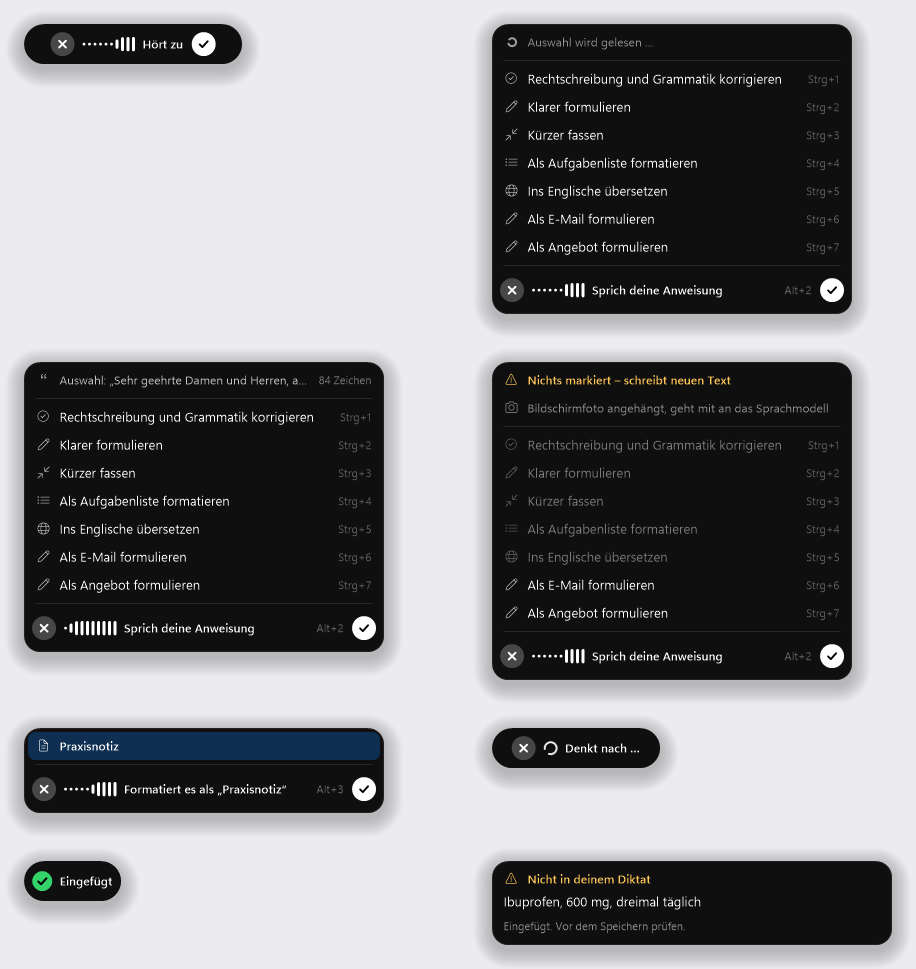
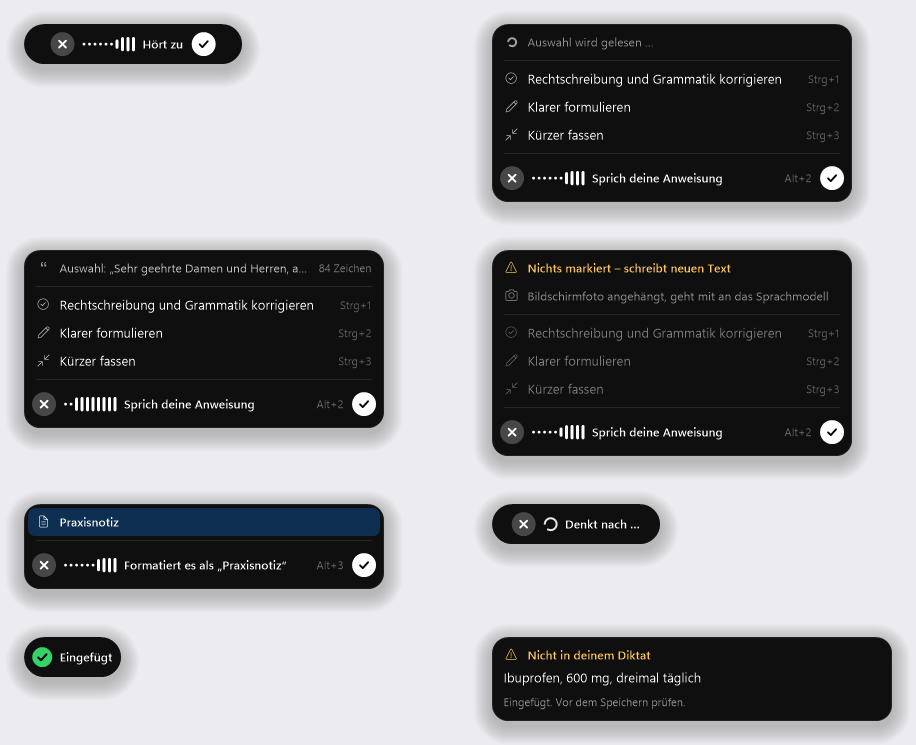
feat(quick-card): the Dictate Prompt card shows the three most used, like the Mac
Mac QuickActionStore: up to 9 own prompts, the card shows cardEntries = 3,
picked by uses in the last 30 days (own order breaks ties) and listed in
the Settings order; ⌃1–3 pick the rows. Windows showed all of them as
Ctrl+1–9.

QuickActionCard.Select ports that choice and normalizeKey; QuickActionUsage
counts the card's picks in %LOCALAPPDATA%\WhisperShortcut\quick-usage.json
(Windows has no interaction log). Take.Card holds the rows, Ctrl+1–3 and
clicks pick from it. Settings and MCP texts use the Mac wording.

diff --git a/src/WhisperShortcut/TrayApp.cs b/src/WhisperShortcut/TrayApp.cs
@@ -37,10 +37,11 @@ internal sealed partial class TrayApp : ApplicationContext
     private readonly ToolStripMenuItem _recentMenu;
     private readonly ToolStripMenuItem _retryItem;
     private readonly RecordingOverlay _overlay = new();
+    private readonly Core.QuickActionUsage _quickUsage = new();
     // In memory only: in a practice a dictation must not stay behind in a file.
     private readonly Core.RecentTexts _recent = new();
     private static readonly Hotkey Escape = new(0, Keys.Escape);
-    // Ctrl+1–9 while a Dictate Prompt recording runs: apply a quick instruction (Settings.QuickActions).
+    // Ctrl+1–3 while a Dictate Prompt recording runs: apply a quick instruction from the card (Take.Card).
     private static readonly Hotkey[] QuickKeys =
         Enumerable.Range(0, Core.QuickActionList.Max).Select(i => new Hotkey(NativeMethods.MOD_CONTROL, Keys.D1 + i)).ToArray();
 
@@ -709,9 +710,10 @@ internal sealed partial class TrayApp : ApplicationContext
     /// </summary>
     private void OnQuickAction(int index)
     {
-        if (_take is not { Phase: TakePhase.Recording, Kind: Core.RecordingKindName.Prompt } take || index >= _settings.QuickActions.Count) return;
+        if (_take is not { Phase: TakePhase.Recording, Kind: Core.RecordingKindName.Prompt } take || index >= take.Card.Count) return;
         Core.Log.Info($"Quick action {index + 1}");
-        take.QuickAction = _settings.QuickActions[index];
+        take.QuickAction = take.Card[index];
+        _quickUsage.Record(take.QuickAction, DateTime.UtcNow);
         _ = StopAndProcessAsync();
     }
 
@@ -918,6 +920,8 @@ internal sealed partial class TrayApp : ApplicationContext
         long micMs = feedback.ElapsedMilliseconds - beforeMic;
         Sounds.Start();
         take.Serial = ++_recordingSerial;
+        // Mac: the three most used of the user's quick instructions, in their Settings order; set before RefreshStatus registers Ctrl+1–3.
+        if (mode == Mode.Prompt) take.Card = Core.QuickActionCard.Select(_settings.QuickActions, _quickUsage.Counts(DateTime.UtcNow));
         _take = take;
         RefreshStatus();
         // One turn only: a Dictate run leaves the image for the next Dictate Prompt or template run.
@@ -925,7 +929,7 @@ internal sealed partial class TrayApp : ApplicationContext
         if (take.Shot != null) Core.Log.Info($"{mode}: screenshot attached ({take.Shot.Data.Length / 1024} KB)");
         _overlay.ShowRecording(mode, Hotkey.Display(stored), limit,
             mic != null ? () => mic.Level : null, mic != null ? () => mic.PeakSoFar : null,
-            mode == Mode.Prompt ? _settings.QuickActions : null,
+            take.Card,
             templateName: mode == Mode.Template ? template!.DisplayName : null, screenshot: take.Shot != null,
             title: live != null ? Core.UserCopy.LiveTitle : null);
         Core.Log.Info($"{mode}: overlay after {feedback.ElapsedMilliseconds} ms (setup {beforeMic} ms, microphone {micMs} ms)");
@@ -1554,7 +1558,7 @@ internal sealed partial class TrayApp : ApplicationContext
     }
 
     /// <summary>
-    /// A quick instruction (Ctrl+1–9 or a click while recording). Whatever was said is transcribed and
+    /// A quick instruction (Ctrl+1–3 or a click while recording). Whatever was said is transcribed and
     /// goes along as text, so this path always has a transcript to check the reply against.
     /// </summary>
     private async Task<string> QuickActionAsync(string quick, byte[] wav, double seconds, string? selection, string systemPrompt, CancellationToken ct)
@@ -1568,7 +1572,7 @@ internal sealed partial class TrayApp : ApplicationContext
         if (request == null)
         {
             Sounds.Error();
-            Notify("Nichts zum Anwenden", $"Erst Text markieren oder etwas diktieren, dann {Core.QuickActionList.KeyRange} drücken.", ToolTipIcon.Info);
+            Notify("Nichts zum Anwenden", $"Erst Text markieren oder etwas diktieren, dann {Core.QuickActionCard.KeyRange} drücken.", ToolTipIcon.Info);
             return "";
         }
         var (target, instruction, fromDictation) = request.Value;
@@ -1901,7 +1905,7 @@ internal sealed partial class TrayApp : ApplicationContext
     // ---------------- UI ----------------
 
     /// <summary>
-    /// Esc and Ctrl+1–9 belong to the other programs except while we need them: Esc while recording or processing,
+    /// Esc and Ctrl+1–3 belong to the other programs except while we need them: Esc while recording or processing,
     /// Ctrl+1–9 only while a Dictate Prompt recording runs.
     /// </summary>
     private void SyncSessionHotkeys()
@@ -1911,7 +1915,7 @@ internal sealed partial class TrayApp : ApplicationContext
         bool quick = _take is { Phase: TakePhase.Recording, Kind: Core.RecordingKindName.Prompt };
         for (int i = 0; i < QuickKeys.Length; i++)
         {
-            if (!quick || i >= _settings.QuickActions.Count) _hotkeys.Unregister(QuickKeys[i]);
+            if (!quick || i >= _take!.Card.Count) _hotkeys.Unregister(QuickKeys[i]);
             else if (!_hotkeys.IsRegistered(QuickKeys[i]))
             {
                 int index = i;

diff --git a/src/WhisperShortcut.Core/QuickActionCard.cs b/src/WhisperShortcut.Core/QuickActionCard.cs
@@ -1,0 +1,108 @@
+using System.Text.Json;
+
+namespace WhisperShortcut.Core;
+
+/// <summary>
+/// Which quick instructions the Dictate Prompt card shows: like the Mac (QuickActionStore.combined, cardEntries = 3),
+/// the three most used of the user's own in the last 30 days, own order breaking ties, listed in the Settings order.
+/// Strg+1–3 pick the rows as shown, so a prompt's key can change when usage changes, its row order never does.
+/// </summary>
+public static class QuickActionCard
+{
+    /// <summary>Rows on the card (Mac <c>QuickActionStore.cardEntries</c>).</summary>
+    public const int Entries = 3;
+
+    /// <summary>"Strg+1 bis Strg+3", for texts that name the card's keys.</summary>
+    public static string KeyRange => $"Strg+1 bis Strg+{Entries}";
+
+    public static readonly TimeSpan Lookback = TimeSpan.FromDays(30);
+
+    /// <summary>The rows for <paramref name="own"/> (Settings order) given uses per <see cref="NormalizeKey"/>.</summary>
+    public static IReadOnlyList<string> Select(IReadOnlyList<string> own, IReadOnlyDictionary<string, int> counts)
+    {
+        var chosen = own
+            .Select((text, index) => (text, index, uses: counts.TryGetValue(NormalizeKey(text), out var n) ? n : 0))
+            .OrderByDescending(x => x.uses).ThenBy(x => x.index)
+            .Take(Entries)
+            .Select(x => x.index)
+            .ToHashSet();
+        return own.Where((_, index) => chosen.Contains(index)).ToList();
+    }
+
+    private static readonly HashSet<string> Fillers = new() { "ähm", "äh", "ehm", "um", "uh" };
+    private static readonly char[] EdgePunctuation = { '.', ',', '!', '?', ';', ':' };
+
+    /// <summary>Port of <c>QuickActionStore.normalizeKey</c>: lower case, fillers and edge punctuation dropped.</summary>
+    public static string NormalizeKey(string? raw)
+    {
+        var tokens = (raw ?? "").ToLowerInvariant().Trim().TrimEnd(EdgePunctuation)
+            .Split((char[]?)null, StringSplitOptions.RemoveEmptyEntries)
+            .Select(t => t.TrimEnd(EdgePunctuation))
+            .Where(t => t.Length > 0 && !Fillers.Contains(t));
+        return string.Join(" ", tokens);
+    }
+}
+
+/// <summary>
+/// When each quick instruction was run, kept for <see cref="QuickActionCard.Lookback"/> in a small JSON file under
+/// %LOCALAPPDATA%. The Mac counts the same from its interaction log; Windows has none, so it counts the picks itself.
+/// </summary>
+public sealed class QuickActionUsage
+{
+    private readonly string _path;
+    private readonly object _lock = new();
+    private List<Use>? _uses;
+
+    private sealed record Use(string Key, DateTime Utc);
+
+    public QuickActionUsage(string? path = null) =>
+        _path = path ?? Path.Combine(AppData.LocalFolder, "quick-usage.json");
+
+    /// <summary>Uses per normalized key within the lookback window.</summary>
+    public IReadOnlyDictionary<string, int> Counts(DateTime nowUtc)
+    {
+        lock (_lock)
+        {
+            return Load().Where(u => nowUtc - u.Utc <= QuickActionCard.Lookback)
+                .GroupBy(u => u.Key).ToDictionary(g => g.Key, g => g.Count());
+        }
+    }
+
+    /// <summary>Counts one run of <paramref name="text"/> and drops uses older than the window.</summary>
+    public void Record(string text, DateTime nowUtc)
+    {
+        var key = QuickActionCard.NormalizeKey(text);
+        if (key.Length == 0) return;
+        lock (_lock)
+        {
+            var uses = Load();
+            uses.RemoveAll(u => nowUtc - u.Utc > QuickActionCard.Lookback);
+            uses.Add(new Use(key, nowUtc));
+            if (AppData.ResetDone) return;
+            try
+            {
+                Directory.CreateDirectory(Path.GetDirectoryName(_path)!);
+                File.WriteAllText(_path, JsonSerializer.Serialize(uses));
+            }
+            catch (Exception e) when (e is IOException or UnauthorizedAccessException)
+            {
+                Log.Info($"Quick action usage not saved: {e.Message}");
+            }
+        }
+    }
+
+    private List<Use> Load()
+    {
+        if (_uses != null) return _uses;
+        try
+        {
+            _uses = File.Exists(_path) ? JsonSerializer.Deserialize<List<Use>>(File.ReadAllText(_path)) ?? new() : new();
+        }
+        catch (Exception e) when (e is IOException or UnauthorizedAccessException or JsonException)
+        {
+            Log.Info($"Quick action usage unreadable, starting empty: {e.Message}");
+            _uses = new();
+        }
+        return _uses;
+    }
+}

diff --git a/src/WhisperShortcut/SettingsForm.cs b/src/WhisperShortcut/SettingsForm.cs
@@ -263,7 +263,7 @@ internal sealed partial class SettingsForm : FastShowForm
             + "Aus: Nur das Symbol und die Anzeige am Bildschirm zeigen, was gerade passiert.", _sounds, ToggleWidth, out _));
         var fixedCard = new Card();
         fixedCard.AddRow(SettingRow("Aufnahme verwerfen oder Verarbeitung abbrechen", null, KeyCap("Esc"), ButtonWidth + 40, out _));
-        fixedCard.AddRow(SettingRow("Schnellanweisung anwenden (nur bei Dictate Prompt)", null, KeyCap(Core.QuickActionList.KeyRange), ButtonWidth + 40, out _));
+        fixedCard.AddRow(SettingRow("Schnellanweisung anwenden (nur bei Dictate Prompt)", null, KeyCap(Core.QuickActionCard.KeyRange), ButtonWidth + 40, out _));
         AddAdvanced(general,
             Section("Töne", first: true), soundCard,
             Section("Während einer Aufnahme", subtitle: "Diese Tasten sind nur belegt, solange die Anzeige unten zu sehen ist. "
@@ -467,18 +467,20 @@ internal sealed partial class SettingsForm : FastShowForm
         prompt.Controls.Add(_screenshotOff);
 
         prompt.Controls.Add(Section("Schnellanweisungen"));
-        prompt.Controls.Add(Wrap($"Erscheinen bei Dictate Prompt ({Hotkey.Display(settings.ActivePromptHotkey.Length > 0 ? settings.ActivePromptHotkey : settings.PromptHotkey)}) unten in der Anzeige. "
-            + $"{Core.QuickActionList.KeyRange} oder ein Klick wendet sie sofort an: auf die Markierung oder, ohne Markierung, auf das gerade "
-            + "Diktierte. Beispiel: Text markieren, Strg+3, schon kürzer. Leere Felder werden ausgelassen.", 0));
+        // Mac wording (QuickActionStore.cardEntries = 3): "Die drei meistgenutzten erscheinen über der Aufnahmeanzeige …".
+        prompt.Controls.Add(Wrap($"Die drei meistgenutzten der letzten 30 Tage erscheinen in der Anzeige, während du einen Prompt diktierst "
+            + $"({Hotkey.Display(settings.ActivePromptHotkey.Length > 0 ? settings.ActivePromptHotkey : settings.PromptHotkey)}). "
+            + $"Klick einen an oder drück {Core.QuickActionCard.KeyRange}, statt zu sprechen: Er wirkt auf die Markierung oder, ohne Markierung, "
+            + "auf das gerade Diktierte. Bei Gleichstand gewinnt die obere. Leere Felder werden ausgelassen.", 0));
         var quickTable = new TableLayoutPanel { ColumnCount = 2, Dock = DockStyle.Top, AutoSize = true, Margin = new Padding(0) };
         quickTable.ColumnStyles.Add(new ColumnStyle(SizeType.Absolute, 72));
         quickTable.ColumnStyles.Add(new ColumnStyle(SizeType.Percent, 100));
         for (int i = 0; i < _quick.Length; i++)
         {
-            quickTable.Controls.Add(new ThemedLabel { Text = $"Strg+{i + 1}", Tone = Tone.Secondary, AutoSize = true, Anchor = AnchorStyles.Left, Margin = new Padding(0, 0, 8, 0) }, 0, i);
+            quickTable.Controls.Add(new ThemedLabel { Text = $"{i + 1}.", Tone = Tone.Secondary, AutoSize = true, Anchor = AnchorStyles.Left, Margin = new Padding(0, 0, 8, 0) }, 0, i);
             _quick[i] = new TextBox
             {
-                MaxLength = Core.QuickActionList.MaxLength, AccessibleName = $"Schnellanweisung Strg+{i + 1}",
+                MaxLength = Core.QuickActionList.MaxLength, AccessibleName = $"Schnellanweisung {i + 1}",
                 Text = i < settings.QuickActions.Count ? settings.QuickActions[i] : "",
                 PlaceholderText = i == 0 ? "z. B. Als Arztbrief formulieren" : "",
             };

diff --git a/tests/WhisperShortcut.Tests/QuickActionCardTests.cs b/tests/WhisperShortcut.Tests/QuickActionCardTests.cs
@@ -1,0 +1,59 @@
+using WhisperShortcut.Core;
+using Xunit;
+
+namespace WhisperShortcut.Tests;
+
+public class QuickActionCardTests
+{
+    private static readonly string[] Own = { "Korrigieren", "Klarer", "Kürzer", "Aufgabenliste", "Englisch", "E-Mail", "Angebot" };
+
+    [Fact]
+    public void NoUsage_ShowsTheFirstThree() =>
+        Assert.Equal(new[] { "Korrigieren", "Klarer", "Kürzer" }, QuickActionCard.Select(Own, new Dictionary<string, int>()));
+
+    [Fact]
+    public void MostUsedWin_ButKeepTheSettingsOrder()
+    {
+        var counts = new Dictionary<string, int> { ["angebot"] = 5, ["e-mail"] = 2, ["korrigieren"] = 2 };
+        // Angebot 5, then E-Mail and Korrigieren tie at 2; all three shown in Settings order.
+        Assert.Equal(new[] { "Korrigieren", "E-Mail", "Angebot" }, QuickActionCard.Select(Own, counts));
+    }
+
+    [Fact]
+    public void TiesGoToTheEarlierOwnPrompt()
+    {
+        var counts = new Dictionary<string, int> { ["angebot"] = 1, ["englisch"] = 1 };
+        Assert.Equal(new[] { "Korrigieren", "Englisch", "Angebot" }, QuickActionCard.Select(Own, counts));
+    }
+
+    [Fact]
+    public void FewerThanThree_ShowsAll() =>
+        Assert.Equal(new[] { "A", "B" }, QuickActionCard.Select(new[] { "A", "B" }, new Dictionary<string, int>()));
+
+    [Theory]
+    [InlineData("Kürzer fassen.", "kürzer fassen")]
+    [InlineData("  Ähm, klarer formulieren!", "klarer formulieren")]
+    [InlineData("äh", "")]
+    public void NormalizeKey_LikeTheMac(string raw, string key) => Assert.Equal(key, QuickActionCard.NormalizeKey(raw));
+
+    [Fact]
+    public void Usage_CountsWithinThirtyDays_AndPersists()
+    {
+        var path = Path.Combine(Path.GetTempPath(), "wsw-quick-" + Guid.NewGuid().ToString("N") + ".json");
+        try
+        {
+            var now = new DateTime(2026, 11, 23, 12, 0, 0, DateTimeKind.Utc);
+            var usage = new QuickActionUsage(path);
+            usage.Record("Kürzer fassen", now.AddDays(-40));
+            usage.Record("Kürzer fassen.", now.AddDays(-1));
+            usage.Record("Als Angebot formulieren", now);
+            var counts = new QuickActionUsage(path).Counts(now);
+            Assert.Equal(1, counts["kürzer fassen"]);
+            Assert.Equal(1, counts["als angebot formulieren"]);
+        }
+        finally
+        {
+            File.Delete(path);
+        }
+    }
+}

diff --git a/src/WhisperShortcut/RecordingOverlay.cs b/src/WhisperShortcut/RecordingOverlay.cs
@@ -8,7 +8,7 @@ namespace WhisperShortcut;
 /// The pill at the bottom of the screen, drawn like the Mac's recording pill (RecordingIndicatorWindow.swift):
 /// a black capsule (92 % opaque) with ✕, ten white level bars, the status word and a white ✓ while recording,
 /// ✕, spinner and status word while processing. Dictate Prompt and templates grow it into the Mac's card
-/// (QuickActionCardView): what the run acts on, the quick instructions (Strg+1–9 or a click), and the recording
+/// (QuickActionCardView): what the run acts on, the three most used quick instructions (Strg+1–3 or a click), and the recording
 /// controls as its footer.
 /// Like the Mac panel (borderless, non-activating, hasShadow) it never takes focus (WS_EX_NOACTIVATE,
 /// MA_NOACTIVATE), otherwise Ctrl+V would land in the pill instead of the user's window.
@@ -133,7 +133,7 @@ internal sealed class RecordingOverlay : OverlayForm
     // ---------------- API for TrayApp ----------------
 
     /// <param name="level">Live level 0..1 (null for a test WAV: no bars, no silence warning).</param>
-    /// <param name="quickActions">Dictate Prompt: the instructions offered as Ctrl+1–9 rows.</param>
+    /// <param name="quickActions">Dictate Prompt: the card's rows (Take.Card, at most three).</param>
     /// <param name="templateName">A template recording: the card names it, and no quick instructions are offered.</param>
     /// <param name="screenshot">A held screenshot is sent with this run: shown as its own line.</param>
     public void ShowRecording(Mode mode, string stopKey, TimeSpan limit, Func<float>? level, Func<float>? peakSoFar,

diff --git a/src/WhisperShortcut.Core/Mcp/McpConfigTools.cs b/src/WhisperShortcut.Core/Mcp/McpConfigTools.cs
@@ -103,7 +103,7 @@ public sealed class McpConfigTools(McpToolContext ctx) : IMcpToolProvider, IMcpR
             }, new[] { "section", "content" }, Writes(true));
 
         yield return WriteTool("update_quick_instructions", "Update Quick Instructions",
-            $"Replaces the whole list of quick instructions (Ctrl+1 to Ctrl+{QuickActionList.Max} while recording a Dictate Prompt). At most {QuickActionList.Max} items of {QuickActionList.MaxLength} characters each. Read the current list with get_configuration and keep the ones the user still needs.",
+            $"Replaces the whole list of quick instructions (the {QuickActionCard.Entries} most used in the last 30 days appear as Ctrl+1 to Ctrl+{QuickActionCard.Entries} while recording a Dictate Prompt). At most {QuickActionList.Max} items of {QuickActionList.MaxLength} characters each. Read the current list with get_configuration and keep the ones the user still needs.",
             new JsonObject { ["instructions"] = StringList("The complete new list.", QuickActionList.Max) }, new[] { "instructions" }, Writes(true));
 
         yield return new JsonObject

diff --git a/src/WhisperShortcut/Take.cs b/src/WhisperShortcut/Take.cs
@@ -80,6 +80,9 @@ internal sealed class Take : IDisposable
     public Task<string?>? Selection { get; private set; }
 
     public string? QuickAction { get; set; }
+
+    /// <summary>Dictate Prompt: the quick instructions on the card, in row order (Strg+1–3 pick from these).</summary>
+    public IReadOnlyList<string> Card { get; set; } = Array.Empty<string>();
     public Core.ScreenshotImage? Shot { get; set; }
     public CancellationTokenSource? Cts { get; set; }
     public string BusyStatus { get; set; } = Core.UserCopy.Processing;

diff --git a/tests/WhisperShortcut.UiTests/OverlayTests.cs b/tests/WhisperShortcut.UiTests/OverlayTests.cs
@@ -49,7 +49,7 @@ public sealed class OverlayTests : IDisposable
         Sta.Run(() =>
         {
             using var overlay = new RecordingOverlay();
-            var quick = Core.QuickActionList.Defaults.Concat(new[] { "Als E-Mail formulieren", "Als Angebot formulieren" }).ToList();
+            var quick = Core.QuickActionCard.Select(Core.QuickActionList.Defaults, new Dictionary<string, int>());
             float level = 0.6f;
             var states = new (string Name, Action Show)[]
             {

diff --git a/docs/plan-mac-angleich.md b/docs/plan-mac-angleich.md
@@ -12,9 +12,9 @@ steht dort in Abschnitt 8 und bleibt. Ein Schritt ist je ein Commit, den Magnus 
 | 4 | Modellwahl als Kacheln (Empfohlen, Am schnellsten, Offline) mit „Weitere Modelle“, Offline-Modus als Schalter | `ModelPickerCuration`, `PrivacyPermissionsTab` | erledigt |
 | 5 | Zwischenablage nach dem Einfügen: „Diktat stehen lassen“ (Standard) / „Vorherigen Inhalt zurücklegen“ / „Leeren“; Automatisch einfügen wie Mac-Standard | `GeneralSettingsTab` | erledigt: „Nach dem Einfügen“ unter Allgemein → Zwischenablage, gesperrt solange „Automatisch einfügen“ aus ist; neu „Diktat stehen lassen“, alte Installationen behalten ihren Schalter (an → zurücklegen, aus → stehen lassen). **Windows anders:** Automatisch einfügen bleibt ab Werk an (Windows braucht keine Berechtigung dafür) |
 | 6 | Meldungen wie die Mac-Popups (unten Mitte, Erfolg 3 s, Fehler mit Knopf), Wortlaut der Mac-Meldungen | `PopupNotificationWindow`, `SpeechErrorFormatter` | erledigt: unten Mitte über der Aufnahmeanzeige, Info 3 s, Warnung/Fehler 30 s, Fehler mit Aktion bleibt; Knopf mit Beschriftung („Erneut versuchen“, „Aufladen“, „Einstellungen öffnen“ …) und ✕; Fehlertitel aus `SpeechErrorFormatter.shortStatus` (`UserCopy.ProviderErrorTitle`). **Windows anders:** kein „Support kontaktieren“ (dafür Tray → „Feedback senden“ → „Problem melden …“), Position und Dauer nicht einstellbar |
-| 7 | Aufnahmeanzeige wie die Pill („Hört zu“, „Prompt“, „Denkt nach“, ✕) | `RecordingIndicatorWindow.swift` | erledigt, seit 0.7.14 auch im Aussehen wie der Mac (Magnus, 23.11.2026): schwarze Kapsel (92 %), ✕, zehn Pegelbalken, Statuswort, weißes ✓ (beendet wie das Kürzel); Dictate Prompt und Vorlagen als Mac-Karte (360 pt, Ecken 16): Kopfzeile „Auswahl: „…“ · n Zeichen“ / „Nichts markiert“ / Vorlagenname, Schnellanweisungen mit Mac-Symbol und „Strg+n“ rechts, Fußzeile ✕ · Pegel · „Sprich deine Anweisung“ · Kürzel · ✓; Einblenden 0,18 s, 28 pt über der Taskleiste. **Windows behält:** Mikrofon- und Zeitlimit-Hinweis (gelb statt des Statusworts), kurzes Häkchen nach dem Einfügen, Bildschirmfoto-Zeile, alle 9 Schnellanweisungen statt der drei meistgenutzten. **Entfallen:** Timer und Tastenhinweis-Zeile. **Offen:** getippte Anweisung (Textfeld), Pille verschieben (Griff), Gerätename hinter „Hört zu“ |
+| 7 | Aufnahmeanzeige wie die Pill („Hört zu“, „Prompt“, „Denkt nach“, ✕) | `RecordingIndicatorWindow.swift` | erledigt, seit 0.7.14 auch im Aussehen wie der Mac (Magnus, 23.11.2026): schwarze Kapsel (92 %), ✕, zehn Pegelbalken, Statuswort, weißes ✓ (beendet wie das Kürzel); Dictate Prompt und Vorlagen als Mac-Karte (360 pt, Ecken 16): Kopfzeile „Auswahl: „…“ · n Zeichen“ / „Nichts markiert“ / Vorlagenname, Schnellanweisungen mit Mac-Symbol und „Strg+n“ rechts, die drei meistgenutzten Schnellanweisungen wie `QuickActionStore.cardEntries` (Strg+1–3), Fußzeile ✕ · Pegel · „Sprich deine Anweisung“ · Kürzel · ✓; Einblenden 0,18 s, 28 pt über der Taskleiste. **Windows behält:** Mikrofon- und Zeitlimit-Hinweis (gelb statt des Statusworts), kurzes Häkchen nach dem Einfügen, Bildschirmfoto-Zeile, **Entfallen:** Timer und Tastenhinweis-Zeile. **Offen:** getippte Anweisung (Textfeld), Pille verschieben (Griff), Gerätename hinter „Hört zu“ |
 | 8 | Einführung als Tour in Schritten statt Banner | `Onboarding/WelcomeSteps` | erledigt: eigenes Fenster `WelcomeForm` (Intro, Einrichtung mit Offline-/Cloud-Karte, Mikrofon, Ausprobieren, Fertig), Punkte und Zurück/Weiter, Pfeiltasten; öffnet bei jedem Start bis „Fertig“, setzt beim gespeicherten Schritt fort; Bestandsinstallationen mit Schlüssel oder Offline-Modus gelten als fertig; Tray „Einrichtung abschließen …“ und „Einführung …“, Über → „Zeigen“; danach ohne Transkription Einstellungen auf „Konten“. Der blaue Banner ist weg. **Windows anders:** Berechtigungen = Mikrofon mit Pegeltest und Knopf zu den Windows-Datenschutzeinstellungen (Windows fragt nicht vorab), Ausprobieren mit dem echten Diktierkürzel statt eines Knopfs, kein OpenRouter/Anthropic/xAI, keine Nutzungsstatistik |
-| 9 | Fehlende Abläufe: abgebrochene Aufnahme transkribieren, 9 Schnell-Prompts, „Erneut ohne Vorlage“, Sprache wählbar, Temperatur/Thinking unter Erweitert | `MenuBarController`, Tabs | erledigt: Tray „Abgebrochene Aufnahme transkribieren“ (ein beim Verarbeiten abgebrochenes Diktat, nur eins, nur im Speicher, kopiert nur) und „Nochmal ohne Vorlage“ (10 min nach einem Vorlagen-Diktat, Audio nur im Speicher, kopiert nur), beide in der Mac-Reihenfolge, „Beschäftigt“ während einer Aufnahme; bis zu 9 Schnellanweisungen (Strg+1–9, Zeilen unter Dictate Prompt, Overlay); Diktieren → „Sprache“ (Automatisch erkennen + 23 Sprachen, nur OpenAI, Gemini und Parakeet ignorieren sie); Diktieren → Erweitert → „Genauigkeit“: Temperatur (0,0 · wörtlich) und Denkaufwand (Minimal) für Gemini. MCP: `dictation.language`, `dictation.temperature`, `dictation.thinking`. **Windows anders:** Schnellanweisungen als neun feste Felder statt „Prompt hinzufügen“/Umsortieren; „Letzte Aufnahme erneut verarbeiten“ bleibt zusätzlich; die Sprache steht immer da (mit Hinweis), nicht nur bei OpenAI |
+| 9 | Fehlende Abläufe: abgebrochene Aufnahme transkribieren, 9 Schnell-Prompts, „Erneut ohne Vorlage“, Sprache wählbar, Temperatur/Thinking unter Erweitert | `MenuBarController`, Tabs | erledigt: Tray „Abgebrochene Aufnahme transkribieren“ (ein beim Verarbeiten abgebrochenes Diktat, nur eins, nur im Speicher, kopiert nur) und „Nochmal ohne Vorlage“ (10 min nach einem Vorlagen-Diktat, Audio nur im Speicher, kopiert nur), beide in der Mac-Reihenfolge, „Beschäftigt“ während einer Aufnahme; bis zu 9 Schnellanweisungen (Zeilen unter Dictate Prompt; im Overlay die 3 meistgenutzten mit Strg+1–3); Diktieren → „Sprache“ (Automatisch erkennen + 23 Sprachen, nur OpenAI, Gemini und Parakeet ignorieren sie); Diktieren → Erweitert → „Genauigkeit“: Temperatur (0,0 · wörtlich) und Denkaufwand (Minimal) für Gemini. MCP: `dictation.language`, `dictation.temperature`, `dictation.thinking`. **Windows anders:** Schnellanweisungen als neun feste Felder statt „Prompt hinzufügen“/Umsortieren; „Letzte Aufnahme erneut verarbeiten“ bleibt zusätzlich; die Sprache steht immer da (mit Hinweis), nicht nur bei OpenAI |
 | 10 | Umfang: Vorlesen, Meetings-Seite, Chat | `ReadAloudSettingsTab`, `MeetingsSettingsTab`, `ChatSettingsTab` | teilweise erledigt (Branch `feat/mac-parity-10`): Vorlesen mit Alt+4, Cloud- und Windows-Stimmen; Meetings-Seite mit eigenen Modellen, Abschnittslänge und Meeting-Schutz; Chatfenster (Alt+6) mit Verlauf, Streaming, Google-Suche, Befehlen und Chat-Seite. Offen: im Chat Bilder/Dateien, Ordner, Gedächtnis, eigene Befehle, verbundene Dienste, /think, /feedback; Meeting-Chat (Fragen zum laufenden Meeting); Vorlesen mit Grok |
 
 ## Schritt 11+: restliche Lücken (Abgleich 04.11.2026 gegen Mac `84c379b`)

diff --git a/docs/macos-paritaet.md b/docs/macos-paritaet.md
@@ -61,7 +61,7 @@ die echtes Windows brauchen, und der Umfang (Chat, Vorlesen, eigener Server).
 | Leere Antwort ist wiederholbar, Aufnahme bleibt | `emptyModelReply` | „Nichts erkannt“, Aufnahme gelöscht | **PR #36** |
 | Bare-Edit-Befehl ohne Markierung | `isBareEditCommand` | `BareEditCommand` | erledigt |
 | Eigene Schnellanweisungen ohne Markierung (R119) | wurden abgelehnt (Bug) | wirken auf das Diktierte | bewusst anders (Bug kann nicht auftreten) |
-| Anzahl Schnellanweisungen | bis 9 | bis 9 (Strg+1–9) | erledigt |
+| Anzahl Schnellanweisungen | bis 9 eigene, Karte zeigt die 3 meistgenutzten (30 Tage, ⌃1–3) | bis 9 eigene, Karte zeigt die 3 meistgenutzten (Strg+1–3); gezählt werden die Klicks/Kürzel auf der Karte (Windows hat kein Interaktionsprotokoll) | erledigt |
 | Getippte Anweisung in der Overlay-Karte | Textfeld, Return | nur Sprache / Strg+Zahl | offen (UI, Fokus, braucht echtes Windows) |
 | Gelernte Schnellanweisungen aus dem Nutzungslog | ja | kein Log | bewusst anders (keine Diktate gespeichert) |
 | Vorlagen als eigener Durchlauf (#275, #290) | ja | ja | erledigt |

diff --git a/docs/macos-referenz.md b/docs/macos-referenz.md
@@ -133,7 +133,7 @@ und diese Datei wird korrigiert.
    (`MenuBarController.swift:3509-3570`, `DictatePromptSelection.swift`).
    - Neue Zwischenablage mit Text → **Bearbeiten**: die Anweisung wird auf diesen Text angewendet.
    - Sonst → **Verfassen**: neuer Text an der Cursorposition.
-2. **Aufnahme:** Die Pill zeigt „Prompting“ und darüber die **Schnell-Prompts** (⌃1–9 oder klicken
+2. **Aufnahme:** Die Pill zeigt „Prompting“ und darüber die **Schnell-Prompts** (die 3 meistgenutzten, ⌃1–3 oder klicken
    statt sprechen). Prompt-Aufnahmen werden nicht gestreamt.
 3. **Bildschirminhalt:** Standardmäßig geht ein Screenshot mit (Schalter; braucht Bildschirmaufnahme).
 4. **Verarbeitung:** Pill „Thinking“, Standardmodell Gemini 3.8 Flash.
